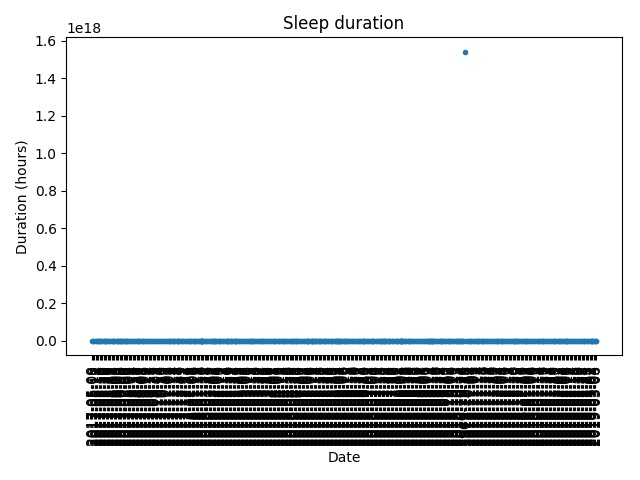
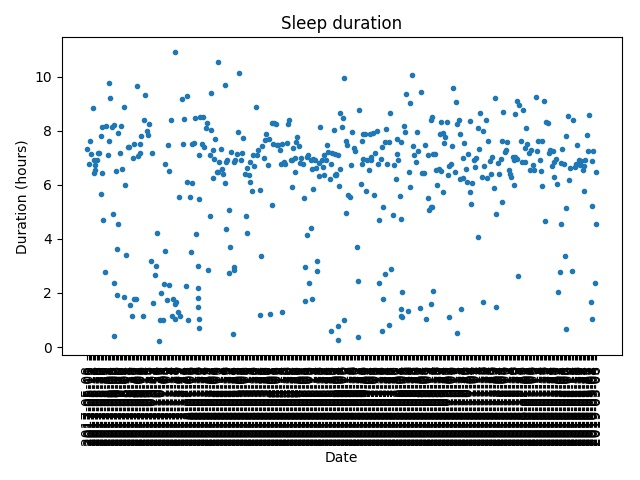
adjusted sleep duration to hours

diff --git a/sleep/sleep.py b/sleep/sleep.py
@@ -28,16 +28,23 @@ def plot_hours(df):
 	''' Plots hours slept each night'''
 
 	# add a duration column
-	df['duration'] = (pd.to_datetime(df['end_time']) - pd.to_datetime(df['start_time']))#.dt.components['seconds'] #.astype('timedelta64[h]')
+	df['duration'] = (pd.to_datetime(df['end_time']) - pd.to_datetime(df['start_time']))
 
-	# filter out hours above 12 as erroneous
-	#df = df[df['duration']<12]
+	# filter out days above 1 as erroneous
+	df = df[df['duration'] < dt.timedelta(days=1)]
+
+	# convert to timedelta
+	df['duration'] = df['duration'].astype('timedelta64[m]') / 60
+
+	# add a duration integer column
+	#df['duration_int'] = df['duration'].astype('timedelta64[h]') + df['duration'].astype('timedelta64[m]')
 
 	# slice the start time column and keep the date, but not the time
 	x = df['start_time'].str.split(' ').str[0]
 	
-	y = df['duration']#.dt.datetime.time()
+	y = df['duration']
 
+	print(y)
 	print(type(y[0]))
 	# make a plot
 	plt.plot(x, y, linestyle='none', marker='.')
